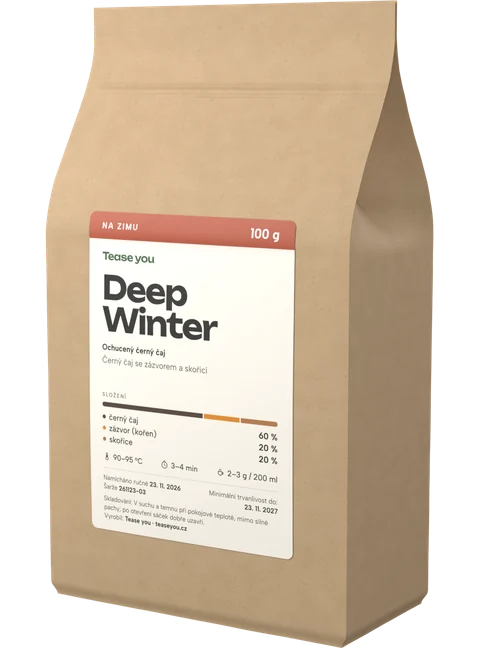
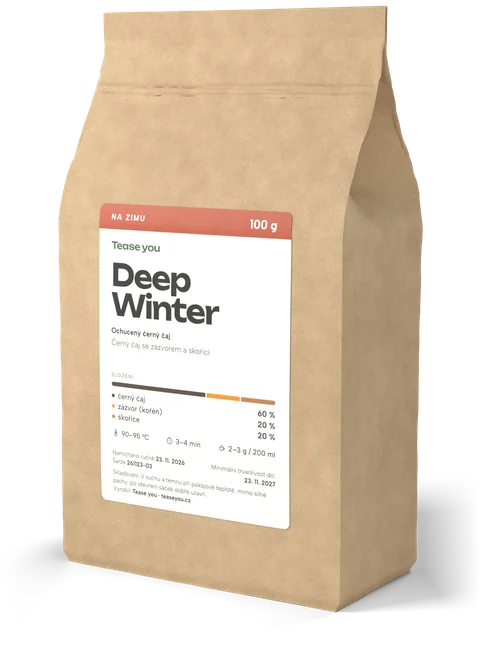
Web: pod rendery sáčků už se nekreslí elipsa stínu (stín je v obrázku)
Claude-Session: https://claude.ai/code/session_015SNt3xtFVyHTVD4atTPgZv

Changed region(s): [[0.0938, 0.0, 0.9688, 1.0], [0.6875, 0.4012, 0.7188, 0.4321]]

diff --git a/style.css b/style.css
@@ -471,10 +471,10 @@ body.dark svg.dm-dark { display: block; }
     background: radial-gradient(closest-side, rgba(25, 18, 8, .34), rgba(25, 18, 8, 0));
 }
 /* Sáček s plochým dnem je render z Blenderu (hotová směs i s etiketou,
-   vlastní směs prázdný). Rámeček 200 : 270, sáček stojí dole na středu
-   a je užší než rámeček, proto je i stín pod ním užší. */
+   vlastní směs prázdný). Rámeček 200 : 270, sáček stojí na středu
+   a skutečný stín na podlaze je už v obrázku, web žádný nekreslí. */
 .pouch-render { position: absolute; inset: 0; width: 100%; height: 100%; object-fit: contain; object-position: 50% 100%; display: block; }
-.pouch--render::after, .pouch--blank::after { left: 14%; right: 14%; bottom: calc(var(--w) * -.03); height: calc(var(--w) * .09); }
+.pouch--render::after, .pouch--blank::after { display: none; }
 /* Scéna hotové směsi z Blenderu: sáček a před ním hromádky surovin, stín je
    už v obrázku. Všechny scény mají stejný rámeček (width/height na img). */
 .scene { width: min(100%, 440px); margin-inline: auto; }
